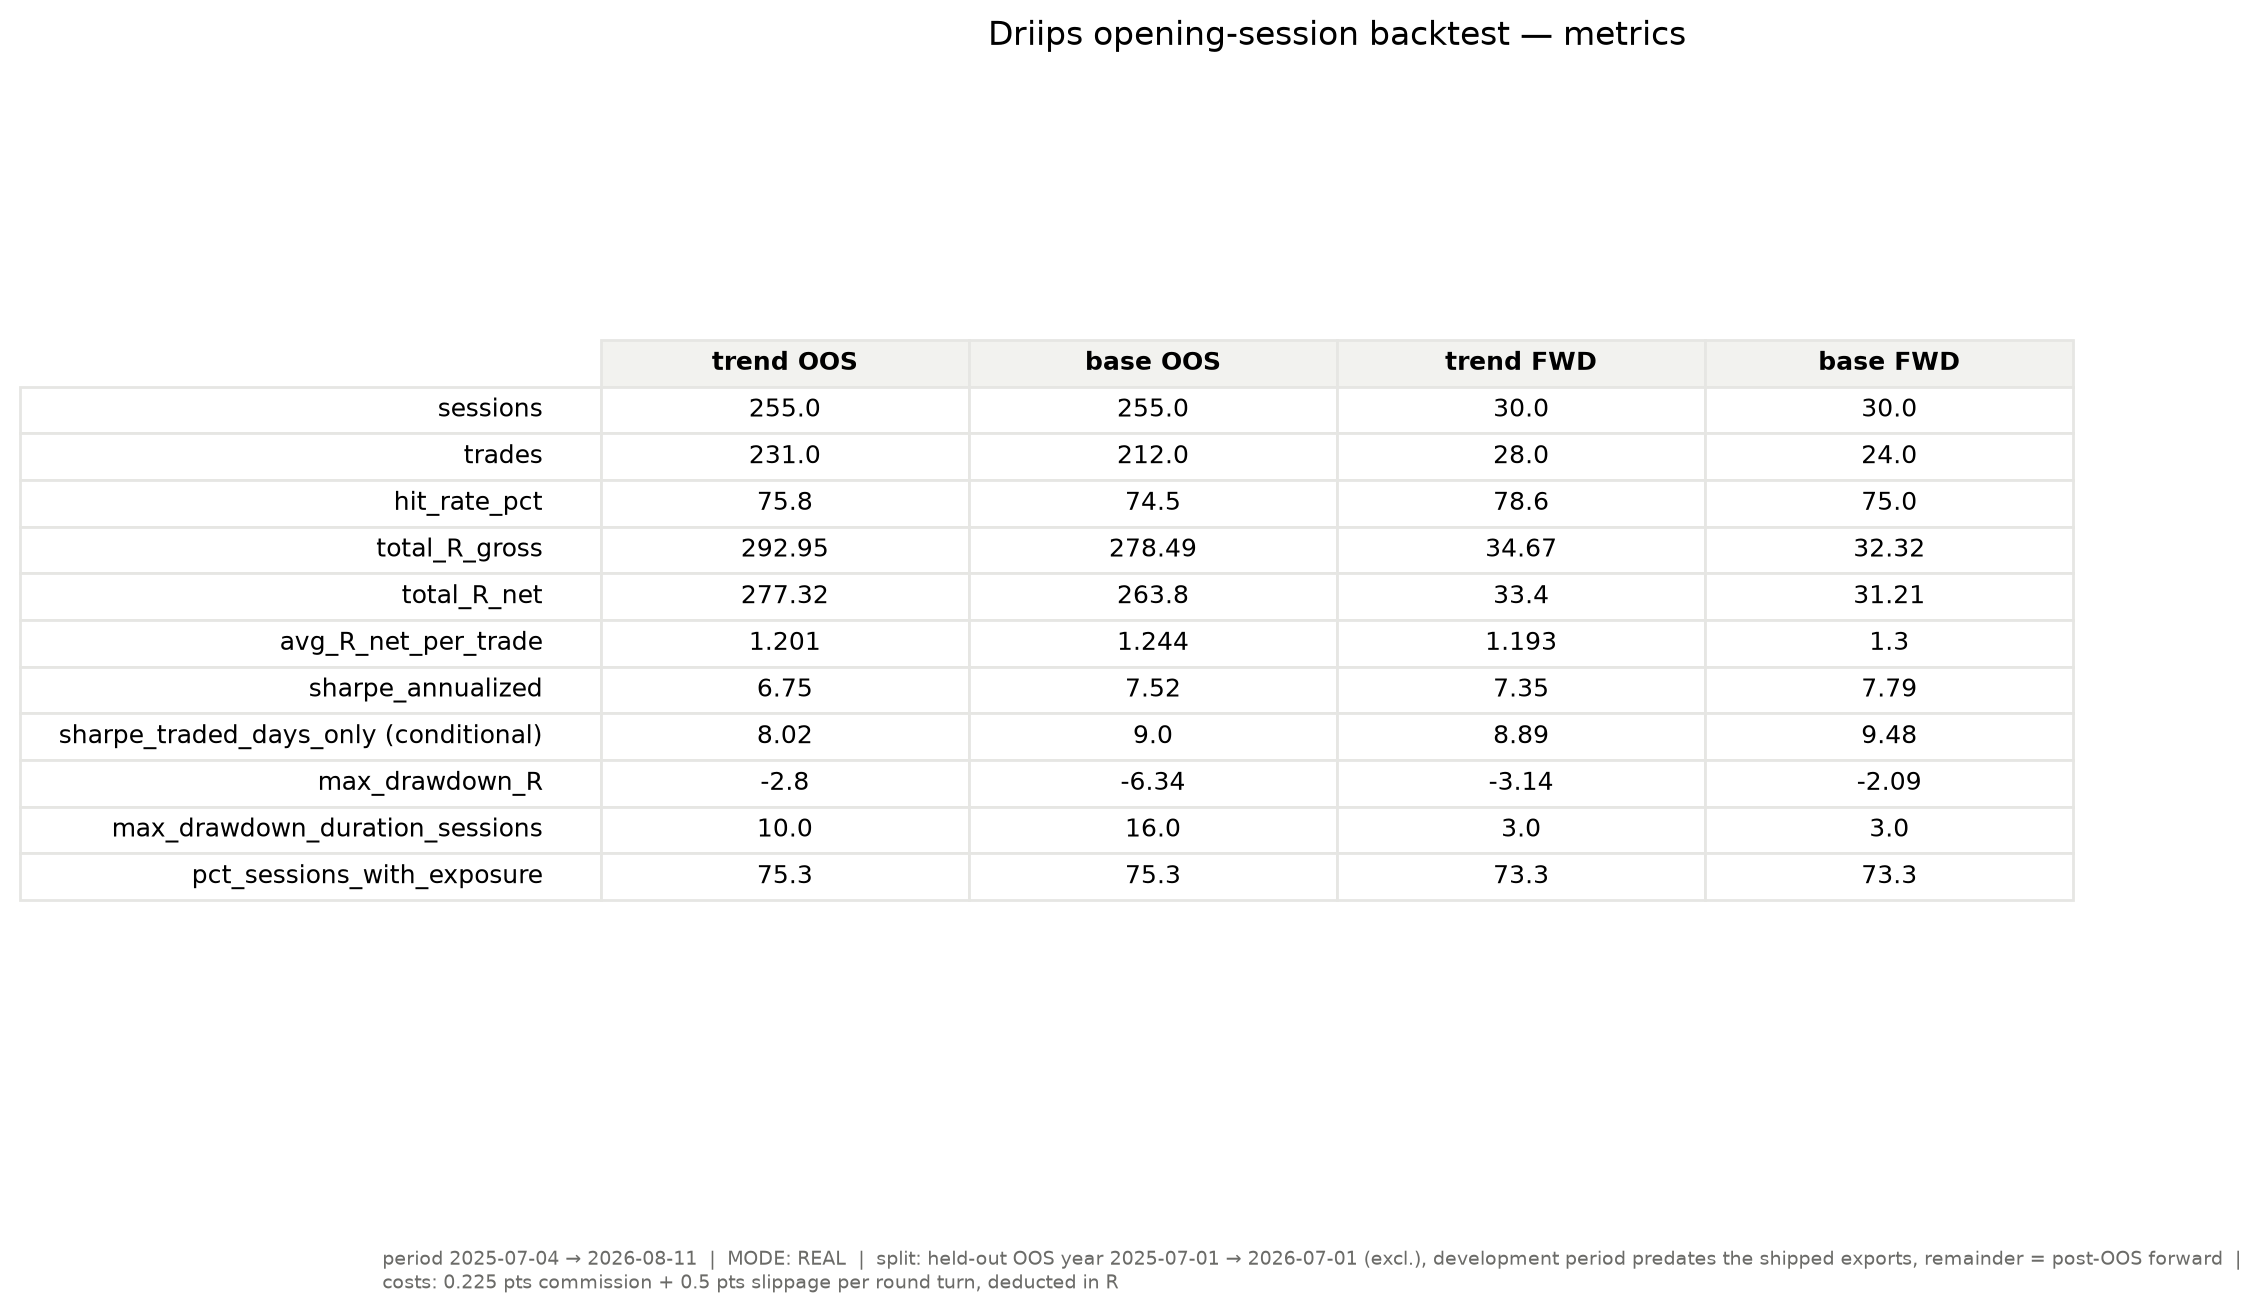
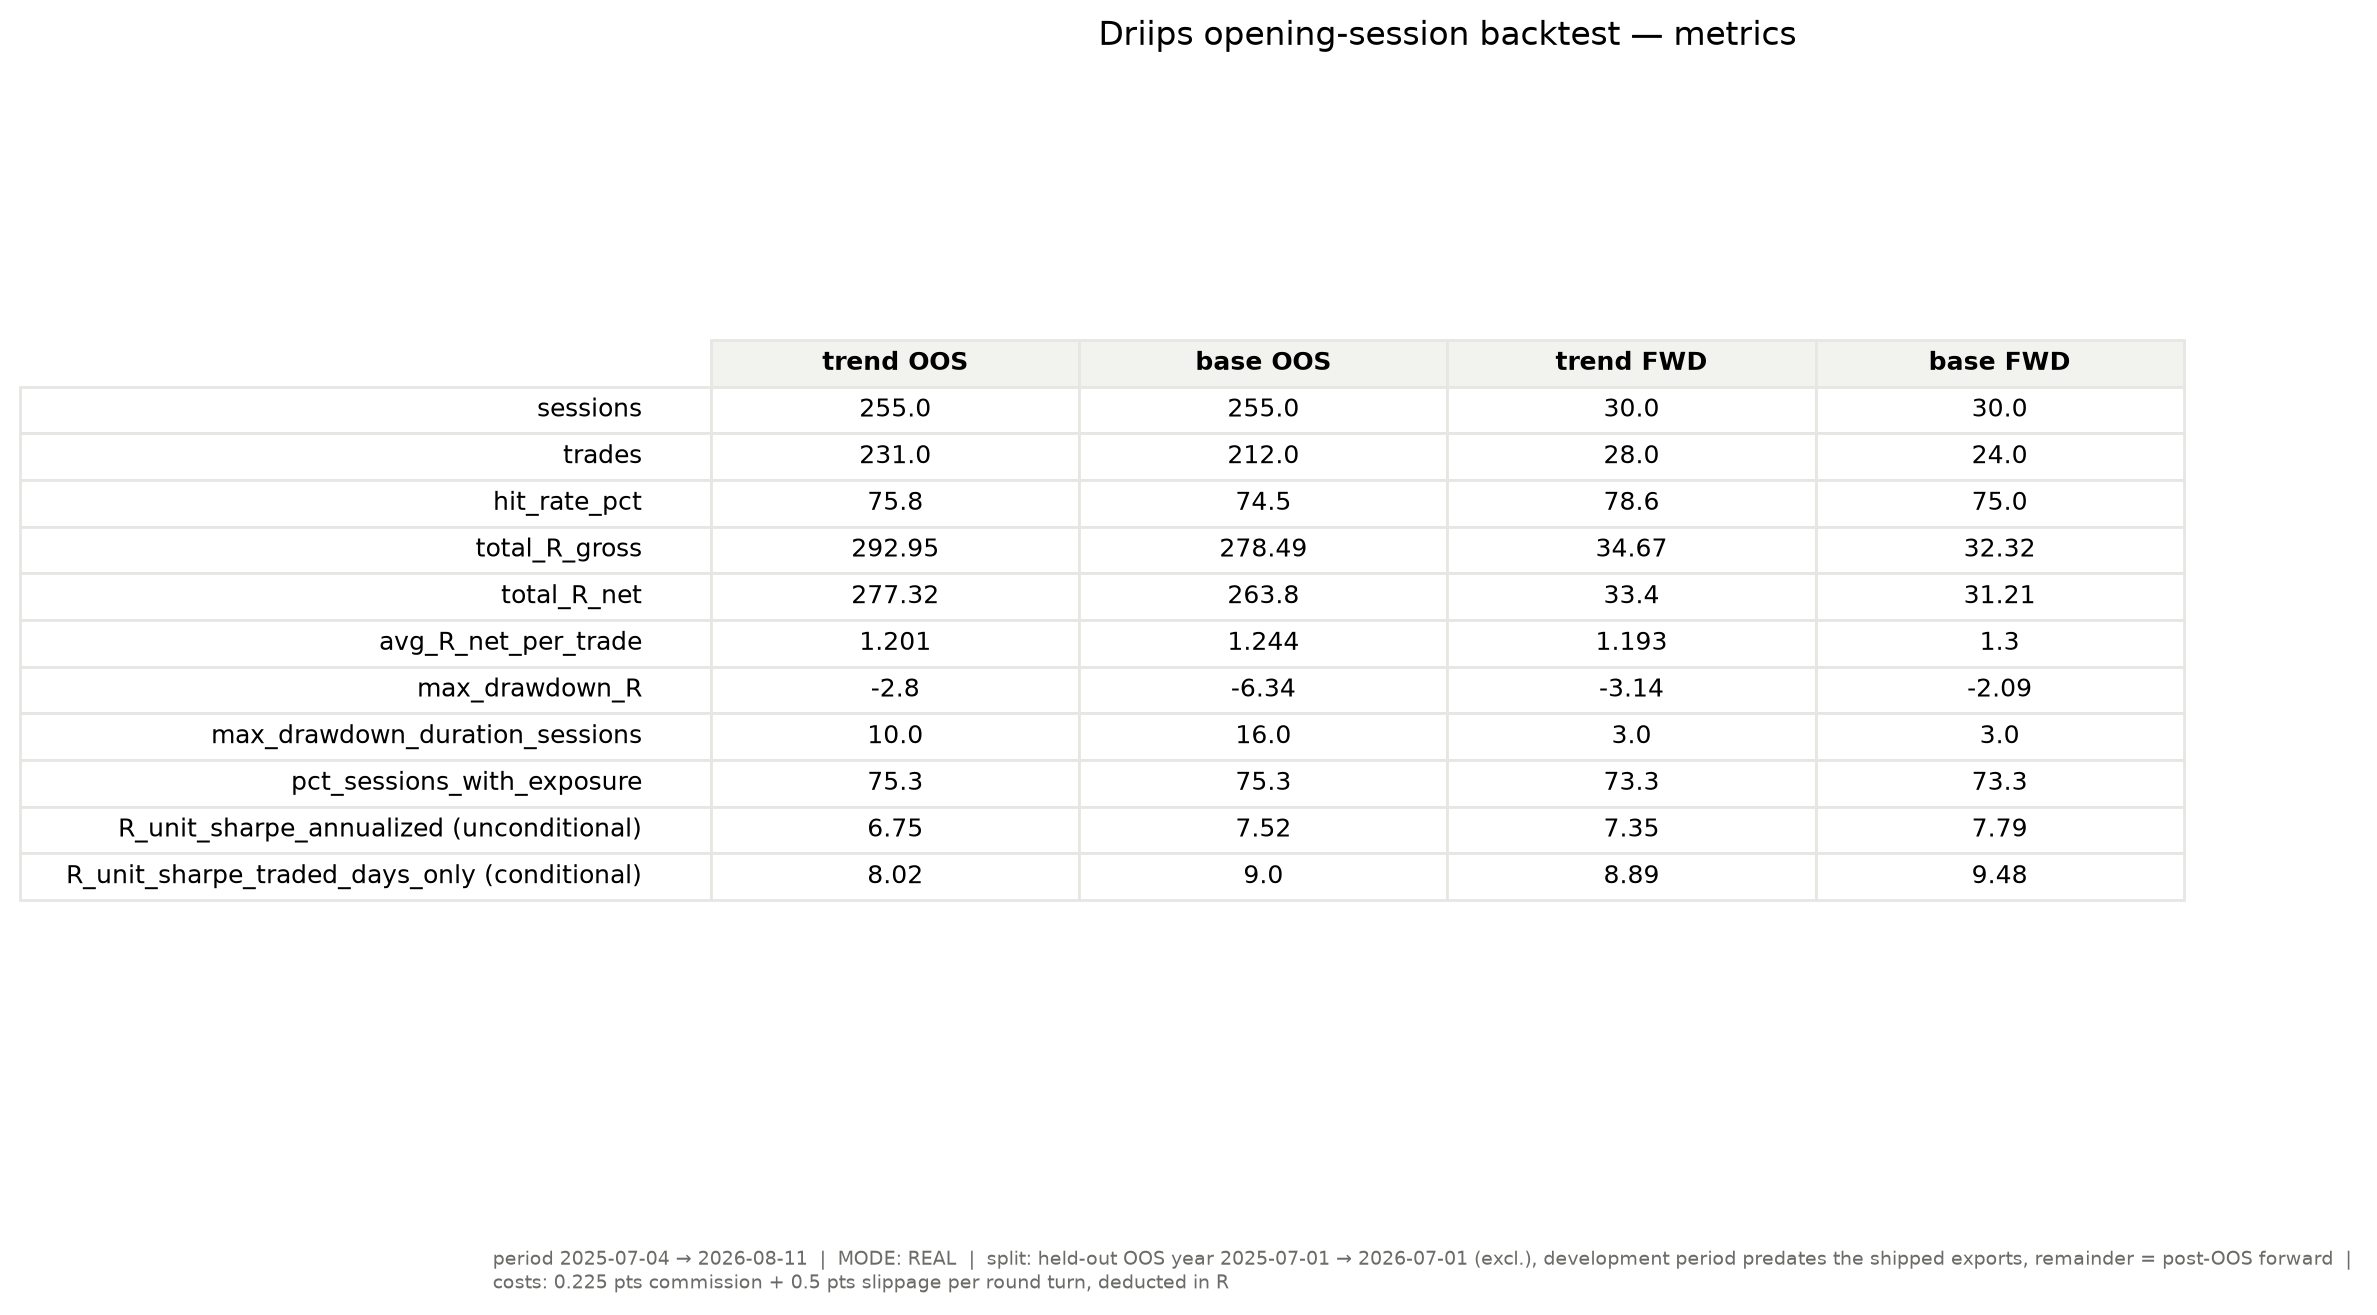
Lead with trade-level statistics and clarify the R-unit Sharpe framing
Metrics summaries, the notebook table, and the README results tables now
put trade count, hit rate, total R, average R, drawdown, and exposure
first; the Sharpe rows are renamed R-unit Sharpe with the conditional
figure labelled and last, and a note explains why the figure is not
comparable to portfolio-level Sharpe ratios. Limitations gains the
live-year cross-check (within ~4% of the held-out backtest, in R terms).

diff --git a/src/metrics.py b/src/metrics.py
@@ -2,12 +2,16 @@
 
 Reporting standard implemented here (and mirrored in the notebook):
 
-- Gross AND net figures, with the cost assumptions stated by the caller.
-- The headline Sharpe ratio is the honestly-annualized, full-period
-  figure: the per-session net R series includes EVERY session in the
-  data window, counting flat sessions as zero. A Sharpe conditioned on
-  invested days only is also computed, but it must always be labelled
-  as conditional and shown after the unconditional figure.
+- Trade-level statistics lead the summary: trade count, hit rate,
+  total R gross and net, average R per trade, max drawdown in R with
+  its duration, and exposure.
+- The Sharpe rows are R-unit Sharpe ratios: honestly-annualized,
+  full-period figures on per-session risk-unit (R) returns, the
+  per-session net R series including EVERY session in the data window
+  with flat sessions counted as zero. They are not comparable to
+  portfolio-level Sharpe ratios on dollar returns. A Sharpe conditioned
+  on traded days only is also computed, but it must always be labelled
+  as conditional and shown last.
 - Max drawdown in R and max drawdown duration in sessions.
 - Percentage of sessions with any exposure.
 - Explicit in-sample / out-of-sample split via ``split_data``.
@@ -118,6 +122,9 @@ def summarize(trades_df, sessions, label=""):
             pd.to_datetime(trades_df["date"]).dt.normalize().unique())]
         cond_sharpe = sharpe_annualized(traded_r)
 
+    # Trade-level statistics lead; the R-unit Sharpe rows come after them,
+    # with the conditional figure labelled and last (see the Sharpe note in
+    # the README — it is not comparable to portfolio-level Sharpe ratios).
     return {
         "label": label,
         "sessions": int(n_sessions),
@@ -126,11 +133,11 @@ def summarize(trades_df, sessions, label=""):
         "total_R_gross": round(float(daily_gross.sum()), 2),
         "total_R_net": round(float(daily_net.sum()), 2),
         "avg_R_net_per_trade": round(float(trades_df.r.mean()), 3) if n else float("nan"),
-        "sharpe_annualized": round(sharpe_annualized(daily_net), 2),
-        "sharpe_traded_days_only (conditional)": round(cond_sharpe, 2),
         "max_drawdown_R": round(max_drawdown(eq_net), 2),
         "max_drawdown_duration_sessions": max_drawdown_duration(eq_net),
         "pct_sessions_with_exposure": round(100 * traded_days / n_sessions, 1) if n_sessions else float("nan"),
+        "R_unit_sharpe_annualized (unconditional)": round(sharpe_annualized(daily_net), 2),
+        "R_unit_sharpe_traded_days_only (conditional)": round(cond_sharpe, 2),
     }
 
 

diff --git a/tests/test_metrics.py b/tests/test_metrics.py
@@ -84,7 +84,11 @@ def test_summarize_full_metrics():
     assert s["pct_sessions_with_exposure"] == pytest.approx(30.0)  # 3 of 10
     assert s["max_drawdown_R"] <= 0
     assert s["max_drawdown_duration_sessions"] >= 1
-    assert not math.isnan(s["sharpe_annualized"])
+    assert not math.isnan(s["R_unit_sharpe_annualized (unconditional)"])
+    # trade-level statistics lead; the conditional Sharpe is labelled and last
+    keys = list(s)
+    assert keys.index("trades") < keys.index("R_unit_sharpe_annualized (unconditional)")
+    assert keys[-1] == "R_unit_sharpe_traded_days_only (conditional)"
 
 
 def test_summarize_empty():

diff --git a/README.md b/README.md
@@ -56,11 +56,11 @@ post-OOS forward sample.
 | Total R, gross | +292.95 | +34.67 |
 | Total R, net | +277.32 | +33.40 |
 | Avg net R / trade | 1.20 | 1.19 |
-| Sharpe (annualized, full period, unconditional) | 6.75 | 7.35 |
-| Sharpe (traded days only — conditional) | 8.02 | 8.89 |
 | Max drawdown (net R) | −2.80 | −3.14 |
 | Max drawdown duration (sessions) | 10 | 3 |
 | Sessions with exposure | 75.3% | 73.3% |
+| R-unit Sharpe (annualized, unconditional) | 6.75 | 7.35 |
+| R-unit Sharpe (traded days only — conditional) | 8.02 | 8.89 |
 
 **Base variant (sequenced entries):**
 
@@ -70,15 +70,22 @@ post-OOS forward sample.
 | Hit rate (TP1 reached) | 74.5% | 75.0% |
 | Total R, gross | +278.49 | +32.32 |
 | Total R, net | +263.80 | +31.21 |
-| Sharpe (annualized, full period, unconditional) | 7.52 | 7.79 |
 | Max drawdown (net R) | −6.34 | −2.09 |
+| R-unit Sharpe (annualized, unconditional) | 7.52 | 7.79 |
 
-The headline Sharpe is always the full-period, honestly-annualized
-figure: per-session returns include every usable cash session in the
-window, flat sessions counted as zero. The Sharpe conditioned on traded
-days only is labelled conditional and shown second. Full metrics table,
-equity curve, and R distribution are in [`results/`](results/README.md),
-each labelled with period, mode, split, and cost assumptions.
+### A note on the Sharpe figure
+
+The Sharpe rows are computed on per-session risk-unit (R) returns of a
+single intraday strategy whose scale-out and breakeven-runner mechanics
+structurally suppress losing sessions. That makes the figure **not
+comparable to portfolio-level Sharpe ratios on dollar returns** —
+readers should weight the trade-level statistics and the drawdown
+figures more heavily. The unconditional figure is honestly annualized
+over the full period, every usable cash session included and flat
+sessions counted as zero; the Sharpe conditioned on traded days only is
+labelled conditional and shown last. Full metrics table, equity curve,
+and R distribution are in [`results/`](results/README.md), each labelled
+with period, mode, split, and cost assumptions.
 
 ## Reproduction
 
@@ -120,6 +127,11 @@ jupyter notebook notebooks/backtest.ipynb         # run all cells
 - **Capacity.** The strategy trades moments of thin, one-sided depth by
   design. It is a small-size strategy; the backtest says nothing about
   execution at institutional size.
+
+As corroboration of the cost and fill assumptions: the held-out-year
+backtest (+277.3R across 231 trades) agrees within about 4% with the
+strategy's automated live execution over the same year (approximately
++274R across ~222 trades, in R terms).
 
 ## License
 
